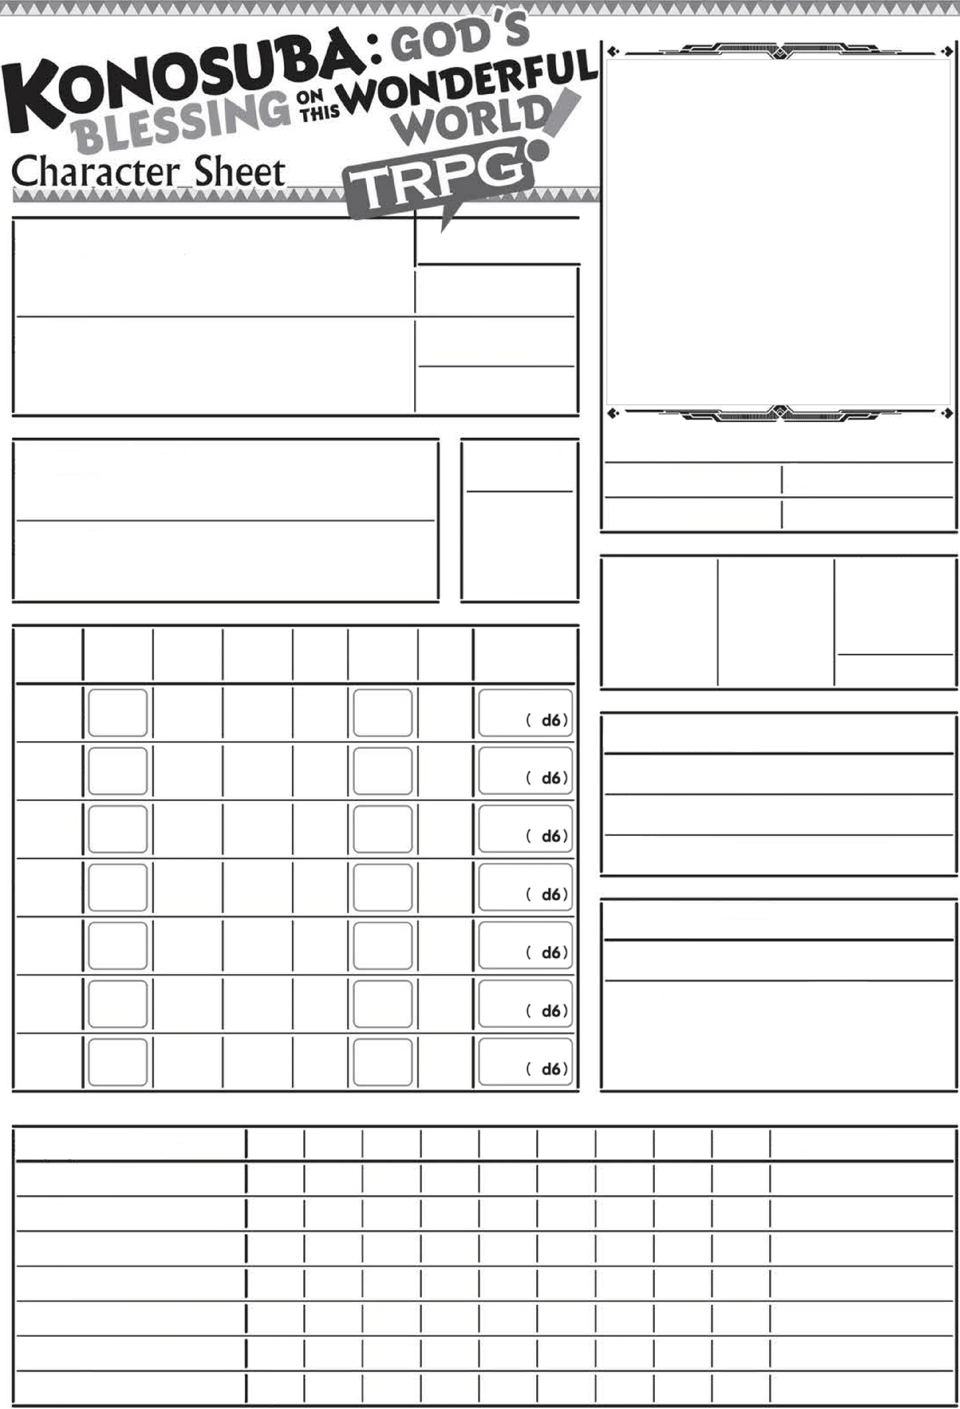
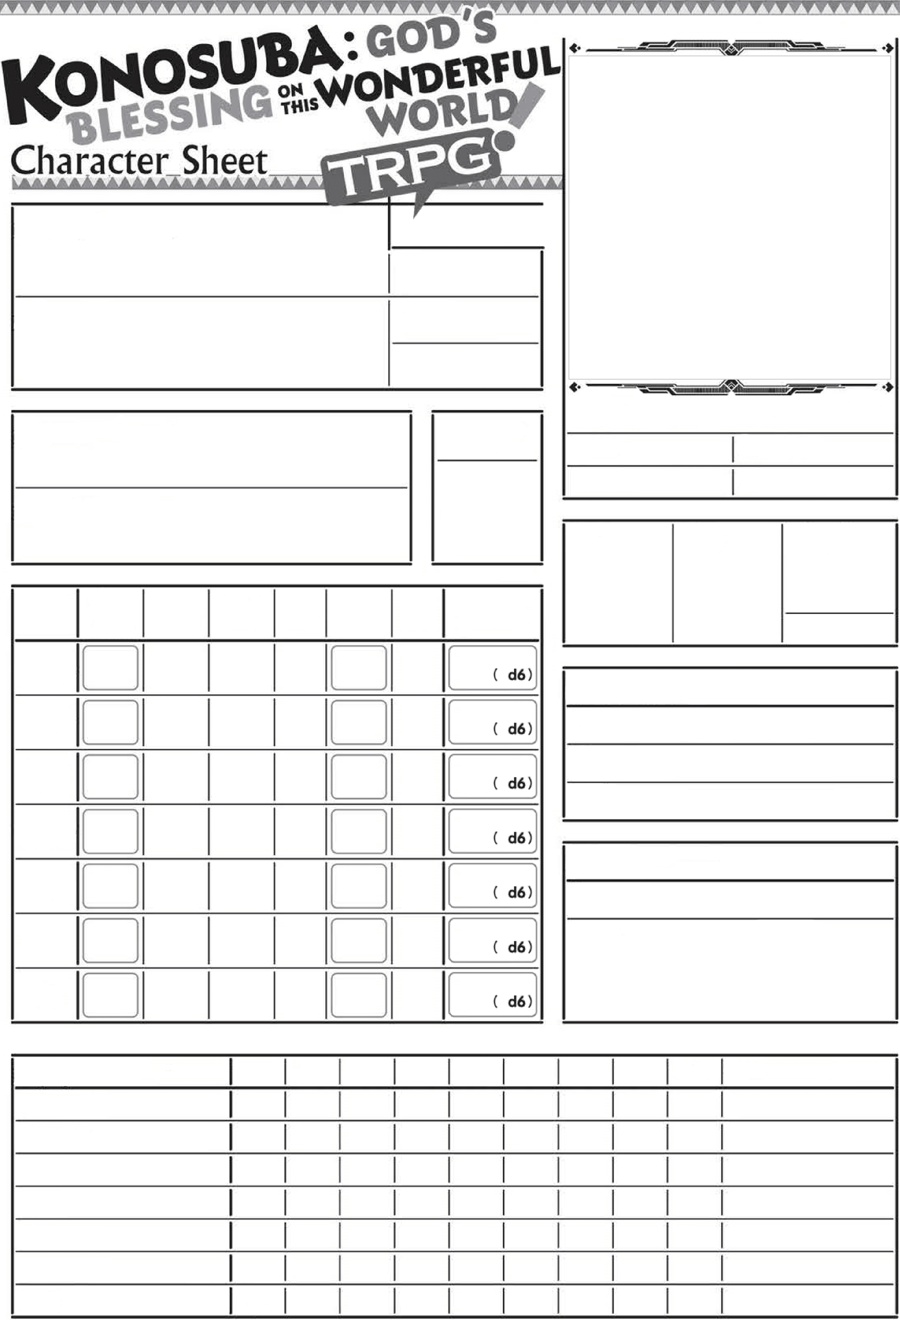
Made background a tiny bit smaller

diff --git a/sheet.html b/sheet.html
@@ -17,35 +17,35 @@
                     <input type="text" name="attr_character_name" class="big-input-text-hand" style="width: 390px;"/>
                 </div>
         
-                <div id="player-name" style="position: absolute; top: 406px; left: 44px;">
+                <div id="character-name" style="position: absolute; top: 406px; left: 44px;">
                     <em class="input-title-large">Player name</em>
                     <br>
                     <div class="mini-gap-remover"/>
-                    <input type="text" name="attr_player_name" class="big-input-text-hand" style="width: 390px;"/>
+                    <input type="text" name="attr_character_name" class="big-input-text-hand" style="width: 390px;"/>
                 </div>
         
-                <div id="player-age" style="position: absolute; top: 355px; left: 443px;">
+                <div id="character-age" style="position: absolute; top: 355px; left: 443px;">
                     <em class="input-title-small">Age</em>
                     <br>
                     <div class="small-gap-remover"/>
                     <input type="text" name="attr_age" class="big-input-numeral" style="margin-left: 58px; width: 96px;"/>
                 </div>
                 
-                <div id="player-gender" style="position: absolute; top: 406px; left: 443px;">
+                <div id="character-gender" style="position: absolute; top: 406px; left: 443px;">
                     <em class="input-title-small">Gender</em>
                     <br>
                     <div class="small-gap-remover"/>
                     <input type="text" name="attr_gender" class="medium-input-text-block" style="margin-left: 6px; margin-top: 20px; width: 154px; height: 26px">
                 </div>
                 
-                <div id="player-xp-used" style="position: absolute; top: 456px; left: 443px;">
+                <div id="character-xp-used" style="position: absolute; top: 456px; left: 443px;">
                     <em class="input-title-small">Used Experience</em>
                     <br>
                     <div class="small-gap-remover"/>
                     <input type="text" name="attr_xp_used" class="medium-input-text-block" style="margin-left: 6px; margin-top: 20px; width: 154px; height: 26px;">
                 </div>
         
-                <div id="player-race" style="position: absolute; top: 532px; left: 44px;">
+                <div id="character-race" style="position: absolute; top: 532px; left: 44px;">
                     <em class="input-title-large">Race</em>
                     <br>
                     <div class="mini-gap-remover"/>
@@ -56,7 +56,7 @@
                     </select>
                 </div>
         
-                <div id="player-class" style="position: absolute; top: 614px; left: 44px;">
+                <div id="character-class" style="position: absolute; top: 614px; left: 44px;">
                     <em class="input-title-large">Class</em>
                     <br>
                     <div class="mini-gap-remover"/>
@@ -86,7 +86,7 @@
                     </select>
                 </div>
         
-                <div id="player-lvl" style="position: absolute; top: 545px; left: 500px;">
+                <div id="character-lvl" style="position: absolute; top: 545px; left: 500px;">
                     <em class="input-title-medium" style="width: 100%;display: inline-block;">Level</em>
                     <br>
                     <input type="text" name="attr_lvl" class="big-input-numeral" style="margin-top: 20px; width: 96px;">
@@ -182,6 +182,12 @@
                     <em class="stat-title-medium" style="width: 99px;display: inline-block;/*! margin-left: 72px; */height: 58px;">Check<br>(# of dice)</em>
                 </span>
             </div>
+
+            <div id="section 3">
+                <div id="character-apperance" style="position: absolute; top: 309px; left: 44px;">
+                    <img name="attr_character_avatar">
+                </div>
+            </div>
         </div>
         
         <div class="journal-sheet-background sheet-journal">
@@ -203,13 +209,13 @@
                 <tr>
                     <th style="border: 2px solid darkslategrey; border-collapse: collapse;">Portrait: </th>
                     <th style="border: 2px solid darkslategrey; border-collapse: collapse;">
-                        <input type="text" name="attr_player_face" placeholder="Img url" size="26" onkeydown="search_portrait(this)" style="font-size:14px;">
+                        <input type="text" name="attr_character_avatar" placeholder="Img url" size="26" style="font-size:14px;">
                     </th>
                 </tr>
                 <tr>
                     <th style="border: 2px solid darkslategrey; border-collapse: collapse;">Token: </th>
                     <th style="border: 2px solid darkslategrey; border-collapse: collapse;">
-                        <input type="text" name="attr_player_token" placeholder="Img url" size="26" onkeydown="search_portrait(this)" style="font-size:14px;">
+                        <input type="text" name="attr_character_token" placeholder="Img url" size="26" style="font-size:14px;">
                     </th>
                 </tr>
                 

diff --git a/sheet.css b/sheet.css
@@ -221,17 +221,17 @@
 .journal-sheet-background {
     background-image: url('https://raw.githubusercontent.com/Moar-Chan/konosuba-sheet/main/journal-background-small.png');
     background-repeat: no-repeat;
-    height: 1409px;
-    width: 960px;
-    background-size: 960px 1409px;
+    height: 1320px;
+    width: 900px;
+    background-size: 900px 1320px;
 }
 
 .character-sheet-background {
     background-image: url('https://raw.githubusercontent.com/Moar-Chan/konosuba-sheet/main/character-background-small.png');
     background-repeat: no-repeat;
-    height: 1409px;
-    width: 960px;
-    background-size: 960px 1409px;
+    height: 1320px;
+    width: 900px;
+    background-size: 900px 1320px;
 }
 
 /*Configure the tab buttons*/
@@ -260,4 +260,9 @@
 .charsheet .sheet-block-b,
 .charsheet .sheet-block-switch:checked ~ .sheet-block-a {
   display: none;
+}
+
+.portrait-img{
+    width: 100px;
+    height: 100px;
 }
